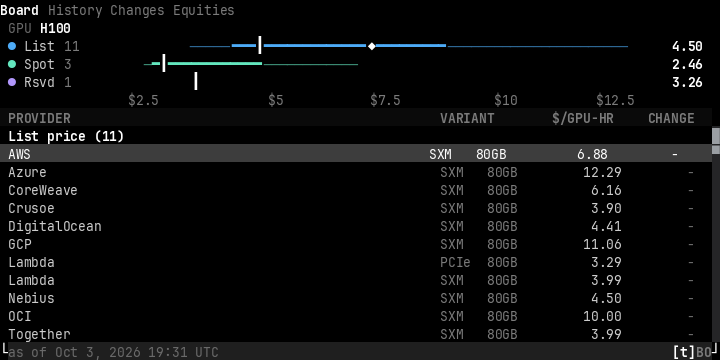
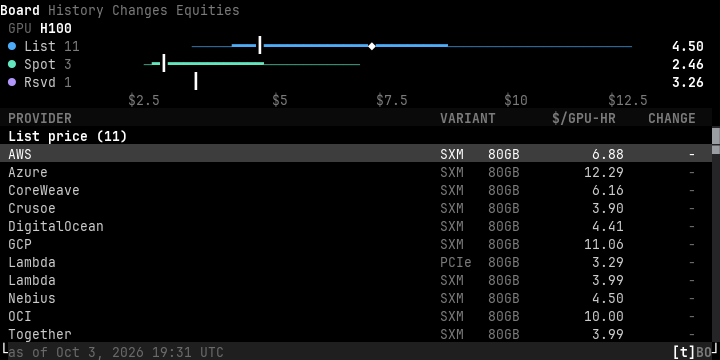
Record GPU reference screenshots and runtime checks

diff --git a/docs/screenshots/gpu-reference/README.md b/docs/screenshots/gpu-reference/README.md
@@ -1,0 +1,22 @@
+# GPU reference-index screenshots
+
+Captured from this change on 2026-10-04, based on merged History change #1342. No production requests, merge or deployment.
+
+The loopback API replay combines recorded provider observations from backend #668 with **509 real anonymous reference readings across 12 series**. Reference A has 92 daily values per series (2026-07-04 through 2026-10-03); Reference B has seven values per series (2026-09-28 through 2026-10-04). Backend #670 retains private evidence; only anonymised public projections reach this repo. Numbers are not transformed. History selects Reference A H100 SXM; muted A/B colours distinguish the third-party comparisons. The wide chart legend and narrow chart strip retain third-party/anonymised attribution.
+
+Desktop captures use the repository's shared desktop pane screenshot renderer with a local replay and no external market-data bridge. The default 2x device scale means the PNG pixel dimensions are twice the logical size in the table. Terminal captures are rasterizations of real styled OpenTUI frame spans, including braille cells, not a separate UI implementation. Each tab/size was visually inspected. A real tmux smoke then exercised selection and refresh against the same replay, with no hook/update-depth/listener warnings. All profiles are under `~/.cache/gloom-smoke/gpu-reference`, and tmux was stopped.
+
+| Tab | Desktop 1280x540 | Desktop 720x360 | Terminal 1280x540 | Terminal 720x360 |
+| --- | --- | --- | --- | --- |
+| Board | [PNG](desktop-board-1280x540.png) | [PNG](desktop-board-720x360.png) | [PNG](terminal-board-1280x540.png) | [PNG](terminal-board-720x360.png) |
+| History | [PNG](desktop-history-1280x540.png) | [PNG](desktop-history-720x360.png) | [PNG](terminal-history-1280x540.png) | [PNG](terminal-history-720x360.png) |
+| Changes | [PNG](desktop-changes-1280x540.png) | [PNG](desktop-changes-720x360.png) | [PNG](terminal-changes-1280x540.png) | [PNG](terminal-changes-720x360.png) |
+| Equities | [PNG](desktop-equities-1280x540.png) | [PNG](desktop-equities-720x360.png) | [PNG](terminal-equities-1280x540.png) | [PNG](terminal-equities-720x360.png) |
+
+## Limits and checks
+
+- Provider rows and Changes are recorded data. No new provider history is fabricated for this reference change.
+- Equity quotes/daily closes are intentionally unavailable in this replay; figures remain blank and the warning is shown. Equity price accuracy is outside this change's audit.
+- The terminal captures run under the required 12 GB virtual-memory limit, separately per tab after a native Bun crash in a multi-tab batch. Isolated captures pass. Chromium image generation uses a bounded timeout outside the test process because Chromium's address-space reservation cannot start under that virtual-memory cap.
+- This short smoke does not establish long-horizon memory stability.
+- Focused GPU/shared chart-table tests, full typecheck, Knip, manifest and proxy-host checks pass. Headless History retains reference provenance, exact published values and null supplier URLs.
